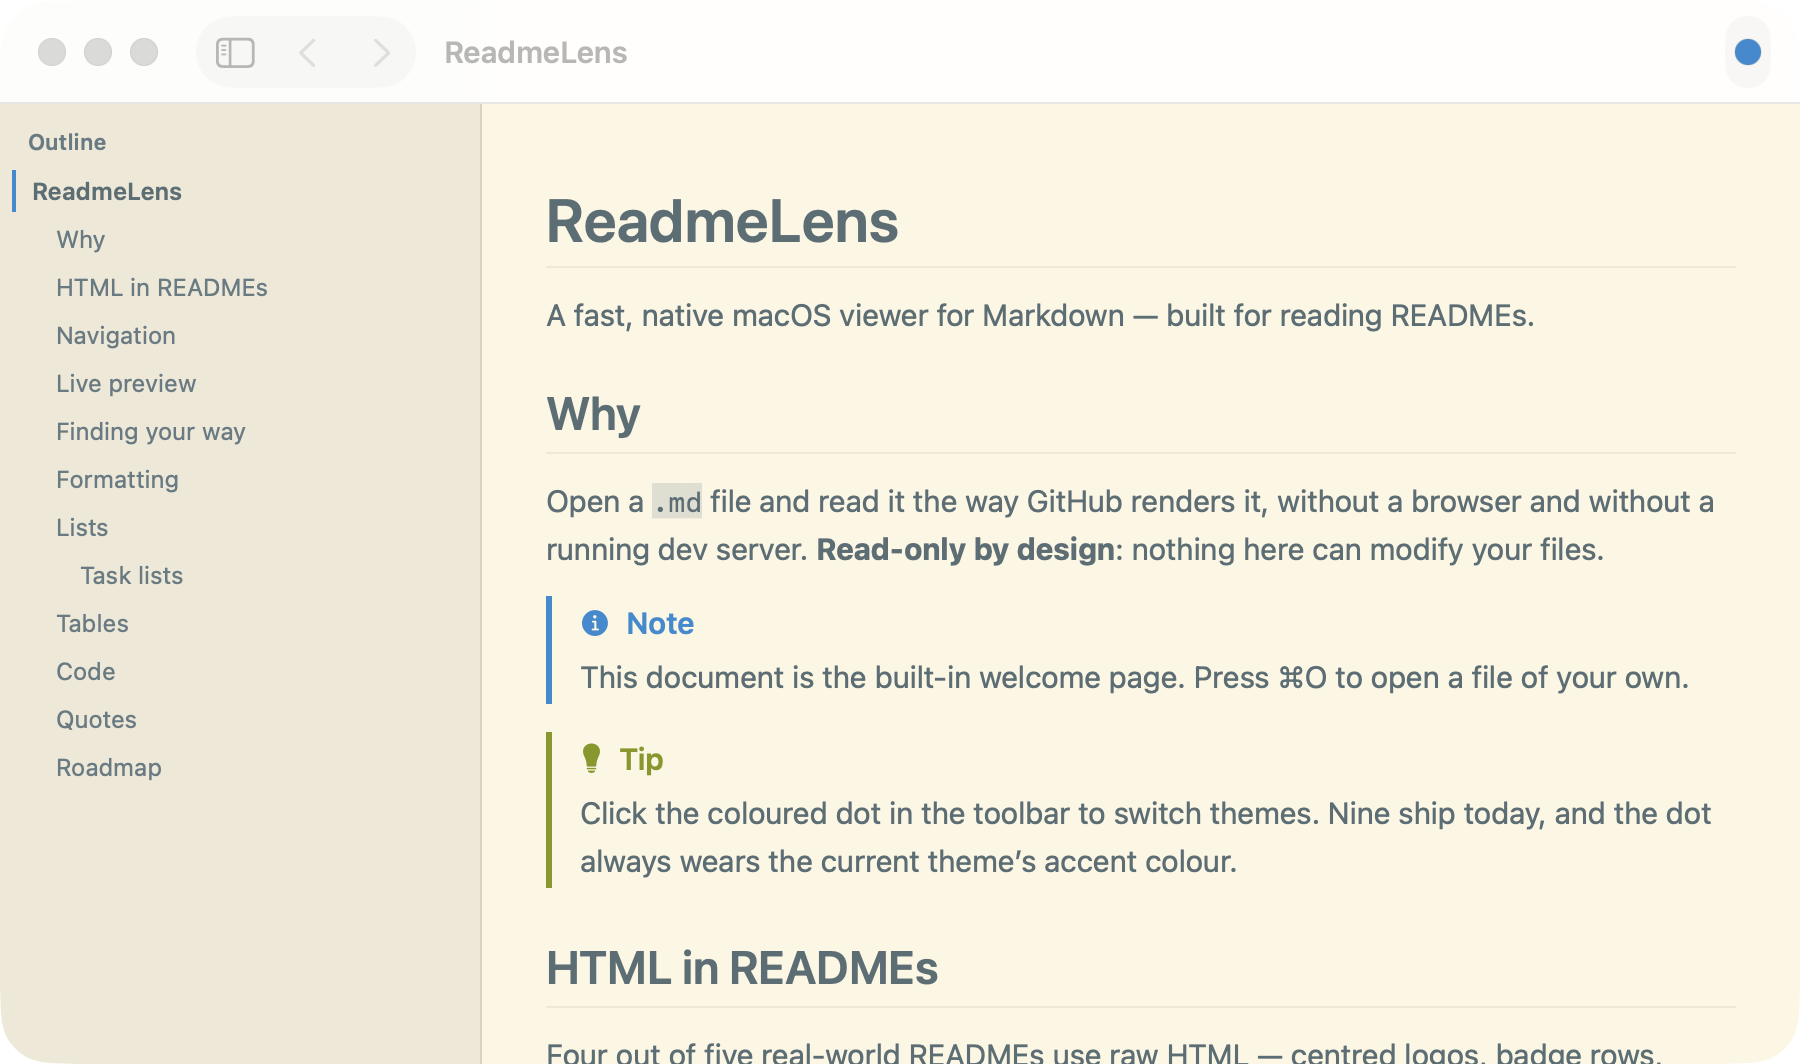
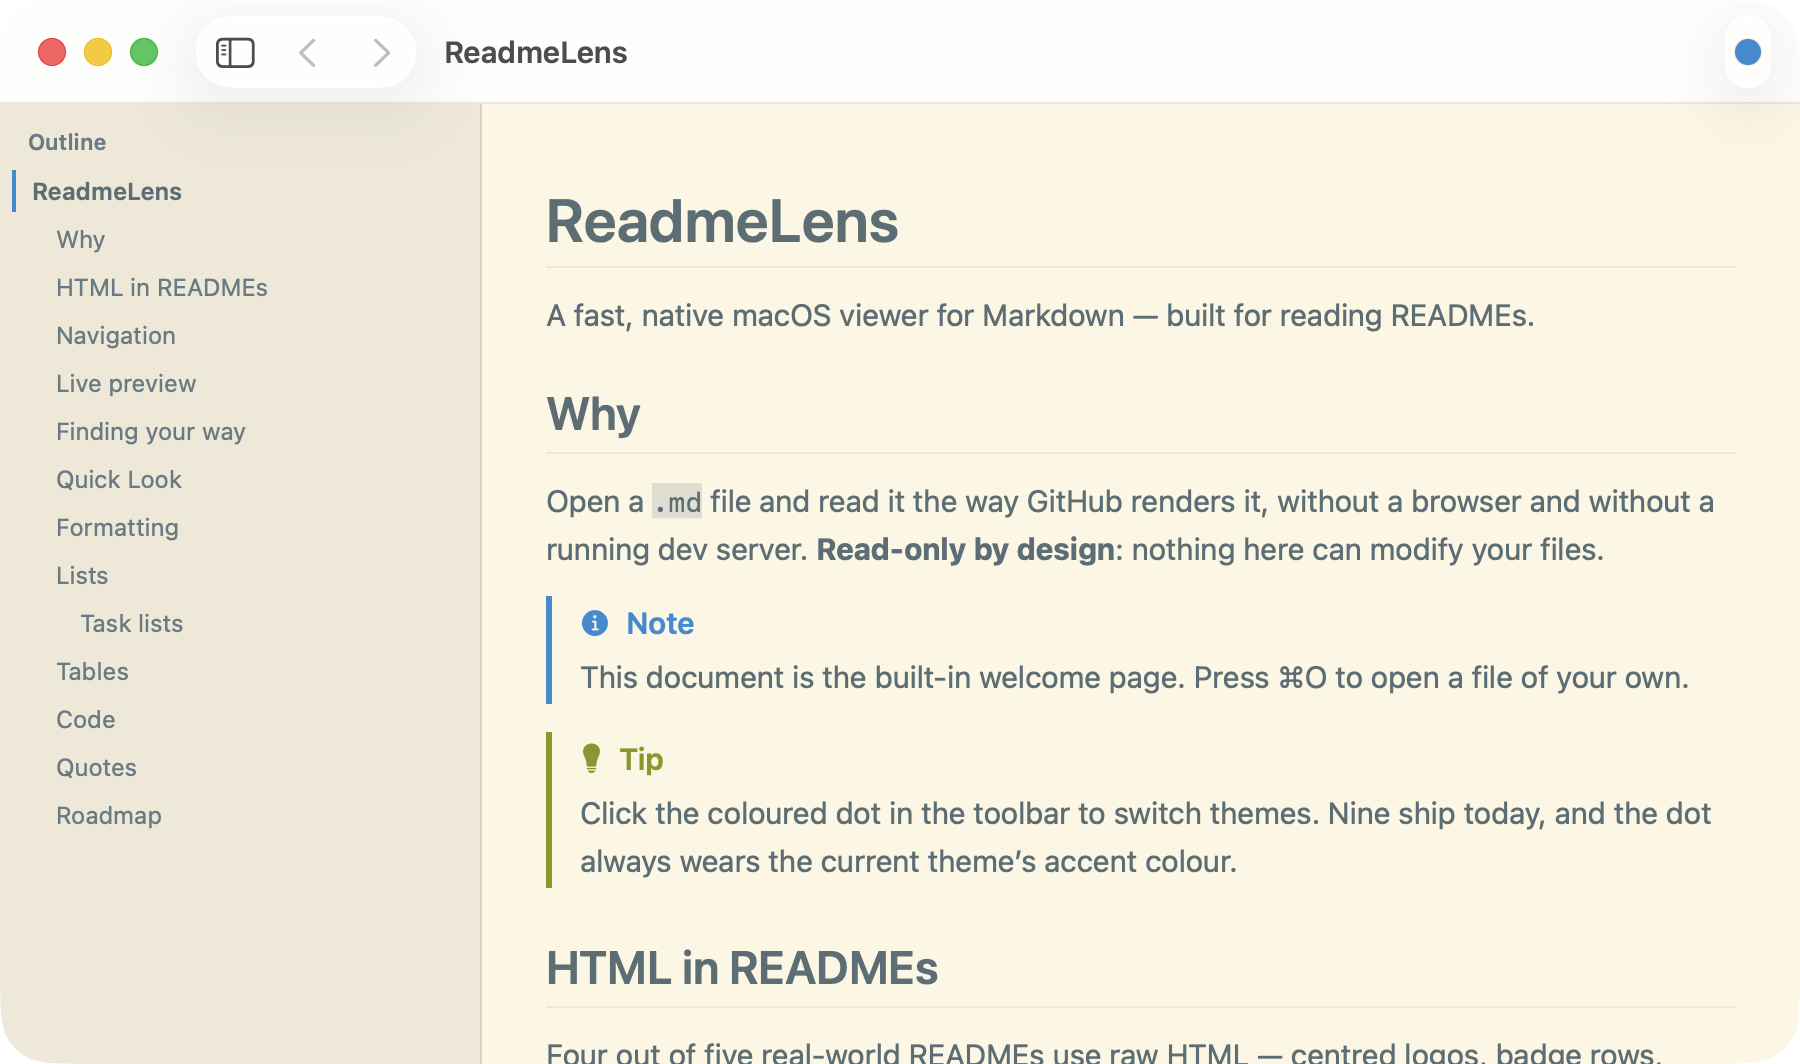
Quick Look extension: preview Markdown from Finder
Press Space on a .md in Finder and it renders there, without launching
the app.

- New app-extension target implementing QLPreviewingController, embedded
  in the app bundle's PlugIns.
- Shares the parser, HTML renderer, syntax highlighter, themes and block
  views by compiling the same sources. The app's `@main` is excluded,
  since an extension supplies its own entry point. That costs binary
  size - the app goes from ~5MB to ~11MB - but avoids packaging a
  framework and signing it separately.
- Follows the system appearance rather than the app's selected theme: an
  extension has its own container and cannot read the host's
  preferences. Sharing them needs an App Group, which needs a real
  signing team.
- Renders the document only: no outline, search or navigation. Quick Look
  is for a glance.

Verified through the real Quick Look path with qlmanage, and confirmed
registered with PluginKit.

Also rewrote project.yml: a string replacement had matched
"ReadmeLensTests:" twice and duplicated a target into the schemes block,
which XcodeGen rejected while the build silently kept using the stale
project file.

diff --git a/Sources/QuickLook/PreviewViewController.swift b/Sources/QuickLook/PreviewViewController.swift
@@ -1,0 +1,81 @@
+import Cocoa
+import QuickLookUI
+import SwiftUI
+
+/// Renders a Markdown file inside Finder's Quick Look panel.
+///
+/// The extension shares the app's parser, theme system and block views, but
+/// none of its chrome: no outline, no search, no navigation. Quick Look is for
+/// a glance, and it is torn down as soon as the panel closes.
+@MainActor
+final class PreviewViewController: NSViewController, QLPreviewingController {
+
+    private let document = DocumentModel()
+    private let search = SearchModel()
+
+    override func loadView() {
+        view = NSView()
+        view.setFrameSize(NSSize(width: 800, height: 600))
+    }
+
+    func preparePreviewOfFile(at url: URL) async throws {
+        // Quick Look hands over a URL already covered by a sandbox extension,
+        // so the file can be read without a folder grant. Sibling images still
+        // need one, and fall back to their placeholders.
+        let scoped = url.startAccessingSecurityScopedResource()
+        defer { if scoped { url.stopAccessingSecurityScopedResource() } }
+
+        let text = try String(contentsOf: url, encoding: .utf8)
+        document.open(url)
+        if document.blocks.isEmpty { document.render(text) }
+
+        let theme = Self.preferredTheme()
+        let host = NSHostingView(
+            rootView: QuickLookPreview(theme: theme)
+                .environmentObject(document)
+                .environmentObject(search)
+        )
+        host.translatesAutoresizingMaskIntoConstraints = false
+
+        view.subviews.forEach { $0.removeFromSuperview() }
+        view.addSubview(host)
+        NSLayoutConstraint.activate([
+            host.leadingAnchor.constraint(equalTo: view.leadingAnchor),
+            host.trailingAnchor.constraint(equalTo: view.trailingAnchor),
+            host.topAnchor.constraint(equalTo: view.topAnchor),
+            host.bottomAnchor.constraint(equalTo: view.bottomAnchor),
+        ])
+        view.appearance = theme.appearance.nsAppearance
+    }
+
+    /// The extension runs in its own container and cannot read the app's
+    /// selected theme, so it follows the system appearance instead.
+    private static func preferredTheme() -> Theme {
+        let isDark = NSApp?.effectiveAppearance.isDark
+            ?? (NSAppearance.currentDrawing().isDark)
+        return isDark ? .githubDark : .githubLight
+    }
+}
+
+/// The preview body: the document, and nothing else.
+struct QuickLookPreview: View {
+    let theme: Theme
+
+    @EnvironmentObject private var document: DocumentModel
+
+    var body: some View {
+        ScrollView {
+            LazyVStack(alignment: .leading, spacing: 14) {
+                ForEach(document.blocks) { block in
+                    BlockView(block: block)
+                }
+            }
+            .padding(.horizontal, 28)
+            .padding(.vertical, 24)
+            .frame(maxWidth: Typography.contentMaxWidth, alignment: .leading)
+            .frame(maxWidth: .infinity, alignment: .center)
+        }
+        .background(theme.canvas)
+        .environment(\.theme, theme)
+    }
+}

diff --git a/README.md b/README.md
@@ -34,6 +34,8 @@ job properly.
 - **Native and small.** SwiftUI + AppKit, a ~5 MB app, instant cold start.
 - **GitHub-accurate.** Alerts, task lists, table alignment, heading rules — and
   the raw HTML that four out of five real READMEs depend on.
+- **Quick Look.** Press Space on any `.md` in Finder and it renders there,
+  without launching the app.
 - **Outline and search.** A heading sidebar that tracks where you are, and
   find-in-document that highlights matches in place.
 - **Live preview.** Save in your editor and the view refreshes in place,
@@ -41,6 +43,19 @@ job properly.
 - **Syntax highlighting** for ~20 languages, coloured by the active theme.
 - **Nine themes**, switchable from a single dot in the toolbar.
 - **Private.** No network calls, no analytics, no telemetry.
+
+## Quick Look
+
+<img src="docs/screenshot-quicklook.png" width="760" alt="A Markdown file rendered in Finder's Quick Look panel">
+
+Select a `.md` file in Finder and press **Space**. The extension lives inside
+the app bundle and shares its parser, themes, syntax highlighter and block
+renderers — so a preview looks exactly like the app, minus the chrome.
+
+It follows the *system* appearance rather than the theme selected in the app: an
+extension runs in its own sandbox container and cannot read the host app's
+preferences. Sharing them would need an App Group, which in turn needs a real
+signing team.
 
 ## Outline and search
 
@@ -147,6 +162,7 @@ swift Tools/GenerateAppIcon.swift Resources/Assets.xcassets/AppIcon.appiconset
 
 | Action | How |
 |:--|:--|
+| Preview without opening | Select a `.md` in Finder, press `Space` |
 | Open a file | `⌘O`, drop a `.md` on the window, or double-click one in Finder |
 | Open from a terminal | `open -a ReadmeLens README.md` |
 | Follow a link to another file | Click it — it opens in place |
@@ -220,8 +236,8 @@ baseline; inside an HTML block they shift correctly.
 | 5 | Theme-aware syntax highlighting | ✅ Done |
 | 6 | Auto-reload on save | ✅ Done |
 | 7 | Table-of-contents sidebar, in-document search | ✅ Done |
-| 8 | Quick Look extension — preview `.md` from Finder | ⏳ Next |
-| 9 | Settings window, custom themes from disk | ⏳ Planned |
+| 8 | Quick Look extension — preview `.md` from Finder | ✅ Done |
+| 9 | Settings window, custom themes from disk | ⏳ Next |
 | 10 | Export to PDF, zoom, reading mode | ⏳ Planned |
 
 Mermaid and LaTeX were originally scheduled early; measuring the corpus showed
